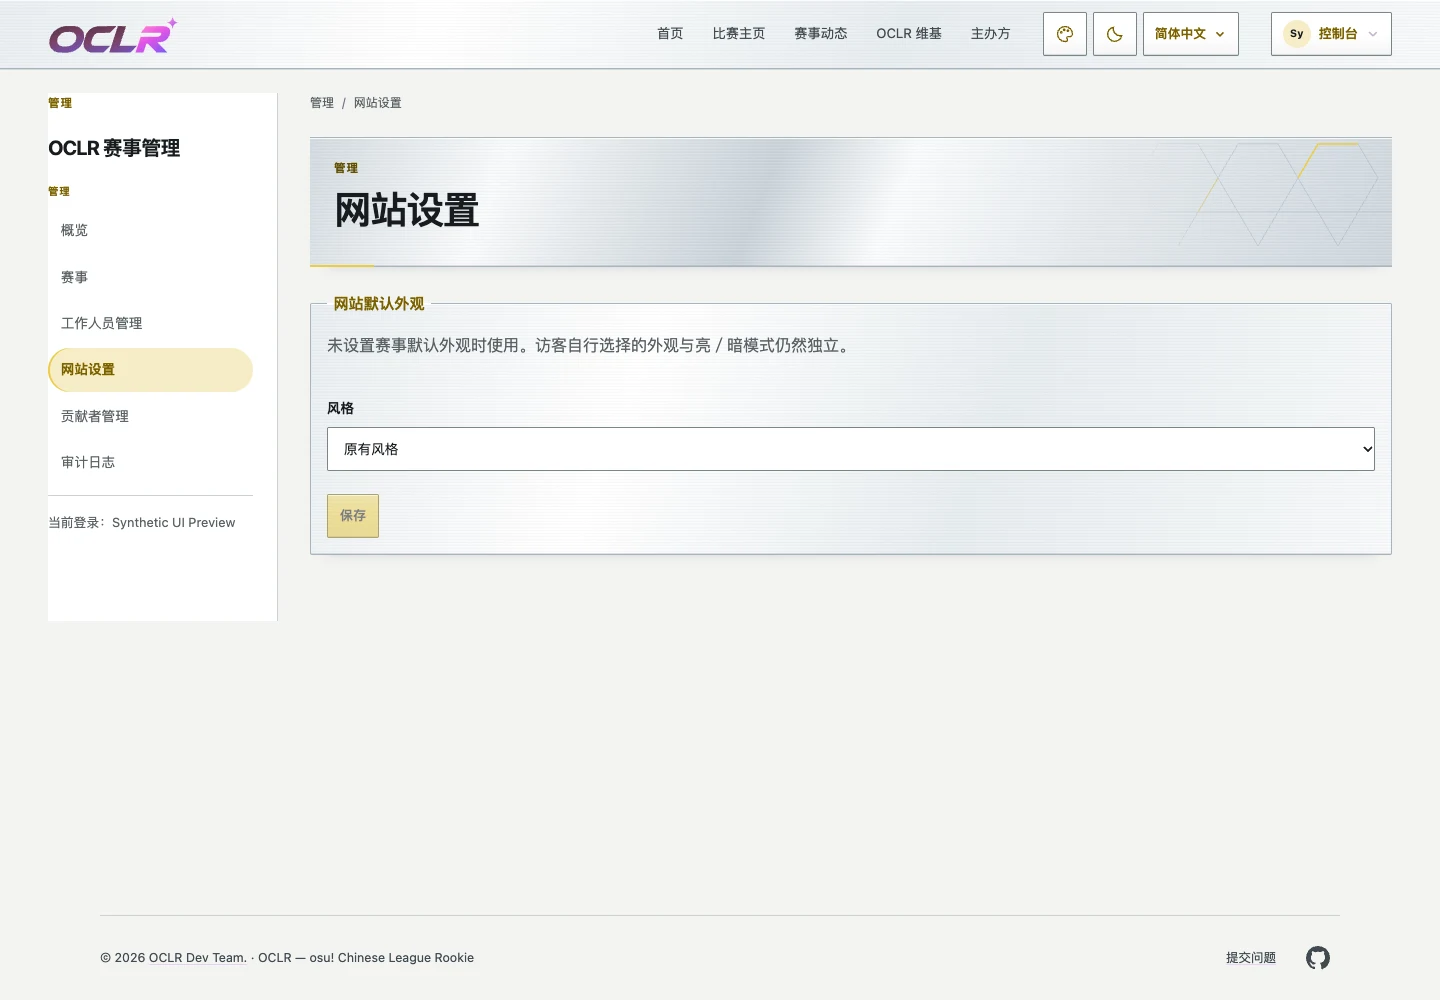
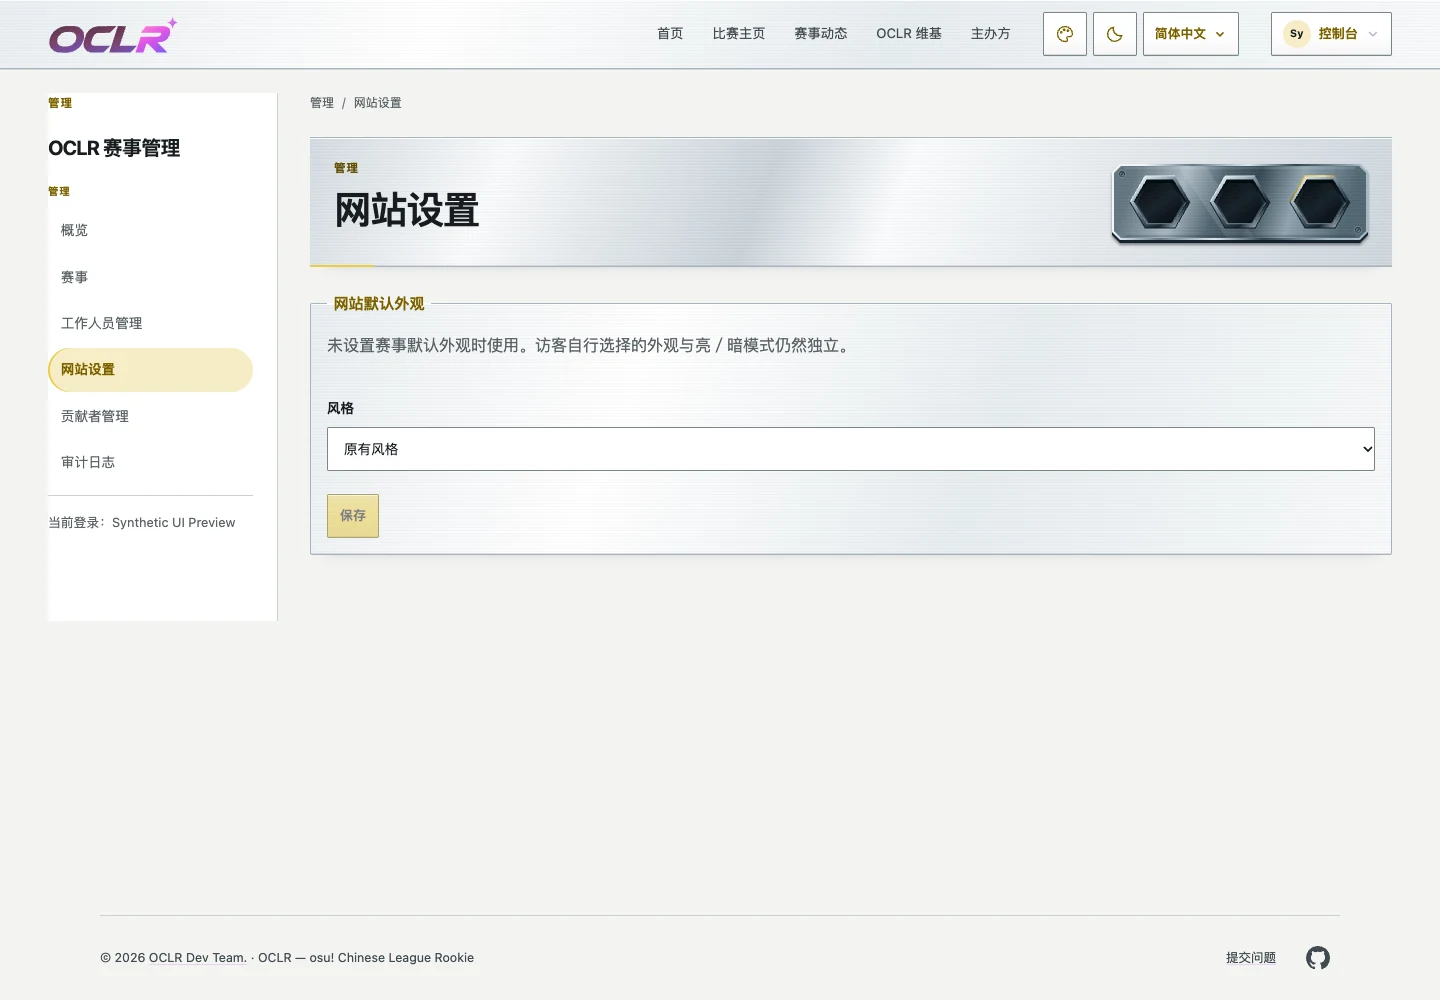
docs: update S7 metal insert previews and native detail captures

Changed region(s): [[0.75, 0.124, 0.9688, 0.248]]

diff --git a/docs/design/season-themes/s7.html b/docs/design/season-themes/s7.html
@@ -78,8 +78,8 @@
       <h1>S7 · 最新應用 UI 設計對照</h1>
       <p>
         圖片來自 main <code>be94ce1</code> 上的 S7 實作
-        <code>cf7cc08</code> 實際頁面，使用 S7 Graphite Arena 的 SSR
-        外觀偏好與打包樣式。拉絲銀色／深鋼金屬、寬幅反射與倒角亮邊，配上蜂巢線稿及競技黃細線；保留完整原主視覺。
+        <code>348bd79</code> 實際頁面，使用 S7 Graphite Arena 的 SSR
+        外觀偏好與打包樣式。拉絲銀色／深鋼金屬、具倒角與內凹槽的六角金屬嵌件，配上蜂巢線稿及競技黃細線；保留完整原主視覺。
       </p>
       <p>
         <a href="s7/DESIGN.md">設計規格與重現步驟</a> ·
@@ -89,6 +89,10 @@
         >
       </p>
     </header>
+    <p style="margin: 16px 24px">
+      金屬嵌件局部：<a href="s7/detail-desktop-light.png">Light</a> ·
+      <a href="s7/detail-desktop-dark.png">Dark</a>（實際頁面 2× 截圖）
+    </p>
     <form aria-label="預覽控制">
       <label
         >實際頁面<select name="surface">

diff --git a/docs/design/season-themes/s7/DESIGN.md b/docs/design/season-themes/s7/DESIGN.md
@@ -4,14 +4,14 @@
 
 ## 設計方向
 
-視覺主張：以有方向反射的拉絲銀色金屬與深色鋼材承接原主視覺；標題、統計與頁首有清楚光澤，競技黃細線與蜂巢線稿延續工業感，表格與重複列保持平整清楚。
+視覺主張：以有方向反射的拉絲銀色金屬與深色鋼材承接原主視覺；標題、統計與頁首有清楚光澤，競技黃細線與六角金屬嵌件延續工業感，表格與重複列保持平整清楚。
 
 內容順序沿用實際頁面：賽季標題 → 完整主視覺與五列統計 → 既有規則區；圖池保留原槽位、譜面、mod 語意；Admin 保留工作表單。沒有插入行銷文案、樣本賽程或虛構規則。
 
 互動沿用現有導覽與偏好控制。標題 180ms 輕入場、導覽 140ms 色彩回饋與按壓 1px 位移只在允許動態時啟用；沒有循環動畫。所有裝飾忽略指標，高對比模式移除線稿並顯示系統選取外框。
 
 - 保留 [1920×1080 原圖](../../../../public/archive/s7/key-visual.jpg)，完整 contain，不裁切、重繪、調色或改字。
-- 桌面標題右側採自繪細線蜂巢，下方 64px 黃色短線呼應金屬原圖；1100px 以下移除右側裝飾，不壓縮長標題。
+- 桌面標題右側採自繪具厚度的六角金屬嵌件，下方 64px 黃色短線呼應金屬原圖；1100px 以下移除右側裝飾，不壓縮長標題。
 - 面板／控制項採 2px 圓角。統計是一整塊金屬板，寬幅反射跨越五列，不為每個數值加框；比分採系統等寬數字。
 - 導覽選取透明底色、單一細底線；賽事頁籤用黃色底線，側欄用細側線。焦點、狀態與 mod 色保持獨立語意。
 - 明版拉絲銀鋁、暗版深色鋼材。反射帶、3px 細刷紋、上緣亮邊與下緣暗邊由靜態 CSS 背景製作；頁首與 Admin 大板採較平緩緞面，按鈕保留小面積頂光。主按鈕亮黃搭深色文字，明版連結採深金色。無遠端字型或新依賴。
@@ -58,7 +58,7 @@
 - 重用既有選單、訪客 cookie → 當前授權／已發佈賽事預設 → 全站預設、清除繼承、SSR 與獨立明暗。非賽事頁不繼承上一季，OBS／presenter 保持隔離。
 - Migration `0048_graphite_arena_appearance` 只擴充全站預設與 audit 的 CHECK 值；不修改任何既有預設、賽事、資料或歷史。透過正常 reviewed update 套用後才儲存為 site default；刻意回退舊版前選回支援值，不刪歷史或對 live DB 降版。
 - API 契約及 OpenAPI 由既有產生器同步，沒有新增 API 或權限。
-- 素材：[自繪蜂巢線稿](../../../../public/themes/graphite-arena/honeycomb.svg)，SVG 原生幾何，不使用生成圖。沒有變更原主視覺檔。
+- 素材：[自繪六角金屬嵌件](../../../../public/themes/graphite-arena/honeycomb.svg)，SVG 原生幾何，不使用生成圖。沒有變更原主視覺檔。
 
 ## 重現截圖
 
@@ -75,7 +75,7 @@ DATABASE_URL="$TEST_DATABASE_URL" ADMIN_OSU_IDS=60001 APP_URL=http://127.0.0.1:3
 在另一個 terminal 對同一 DB，設定 `S7_UI_BASELINE` 為本輪 runtime 提交，執行：
 
 ```sh
-S7_UI_BASELINE=cf7cc08aa828509840be3beac3e8f6426d607a3b node --import tsx docs/design/season-themes/s7/capture.mjs
+S7_UI_BASELINE=348bd7955f3900e0a0f066934a8816879fc4e302 node --import tsx docs/design/season-themes/s7/capture.mjs
 ```
 
 截圖程式核對 runtime／messages／public 與指定 SHA 完全一致，從實際 SSR 外觀偏好與已打包 CSS 產圖；不注入候選 CSS、不更換元件。檢查三個路由 × 四個寬度（320／390／768／1440）× 明暗、Axe AA、DOM／文字不變、五列統計、完整原圖、手機選單／焦點與 sticky stack，另檢查四組 forced colours。合成 session 只在記憶體，不進截圖或原始碼。
@@ -119,3 +119,17 @@ S7_UI_BASELINE=cf7cc08aa828509840be3beac3e8f6426d607a3b node --import tsx docs/d
 - 最終 24 組實際 UI／24 次 Axe AA 零違規；4 組 forced colours 通過，金屬背景與陰影明確移除。16 張頁面圖、2 張手機選單及12張 default 對照已更新。
 - 人工核對明暗與手機材質、原圖完整性及最不利反射對比；設計連結、圖庫工具 ESLint／語法及 `git diff --check` 通過。
 - CSS 精修未重跑未受影響的完整 unit/integration、i18n 或依賴稽核；首版結果另列，未當成本輪新跑的結果。交付 head 的 CI／狀態另記於 #198，不將 pending CI 稱作通過。沒有合併或部署。
+
+### 六角金屬嵌件精修（2026-10-27）
+
+依主辦方提供的標題局部與原圖金屬蜂巢參考，將右側線稿改為有實體厚度的切角嵌件：三個六角凹槽、銀色倒角、內壁與底層、兩枚沉頭固定件、低對比細拉絲及單段金黃反光。移除左側漸隱遮罩，保留完整加工邊緣。沒有增加產品文案、圖示操作或互動；1100px 以下與 forced colours 仍收起該裝飾，不覆蓋標題或原主視覺。
+
+素材沿用原生 `honeycomb.svg`，純本地向量／漸層／圖樣，沒有生成圖、外部字型或依賴。標題其餘材質、三語名稱與資料／外觀繼承保持現狀。
+
+本輪 runtime：`348bd7955f3900e0a0f066934a8816879fc4e302`。新增實際頁面 2× 裝置像素的 [Light 局部](detail-desktop-light.png)／[Dark 局部](detail-desktop-dark.png)；直接截取標題右側，沒有後製或候選 CSS overlay。最新全頁圖與實測以 `verification.json` 為準。
+
+- `npm run check`、production build、圖庫工具 ESLint／語法及 `git diff --check` 通過。
+- Runtime `348bd79` 的 Chrome 桌面／手機 2 項與 Safari 桌面／手機 2 項通過，包含三語明暗、SSR／跨頁、原圖、實際比分與高對比退場。
+- 24 組實際頁面／24 次 Axe AA 零違規、4 組 forced colours 通過；DOM／文字、五列統計、手機焦點與 sticky stack 保持不變。
+- 圖庫更新16張頁面圖、2張原生2×局部、2張手機選單與12張 default 對照。人工核對原生 SVG 的厚度、明暗比例及原圖未變；本地文件連結通過。
+- 本輪只改裝飾 SVG／定位與設計證據，沒有重跑未受影響的完整 unit/integration、i18n 或依賴稽核。首版 full CI 與前輪 core CI 已各自 success；exact SHA／連結與本輪 CI 狀態分別記錄於 #198，不將舊結果當成本輪結果。沒有建立 PR、合併或部署。
